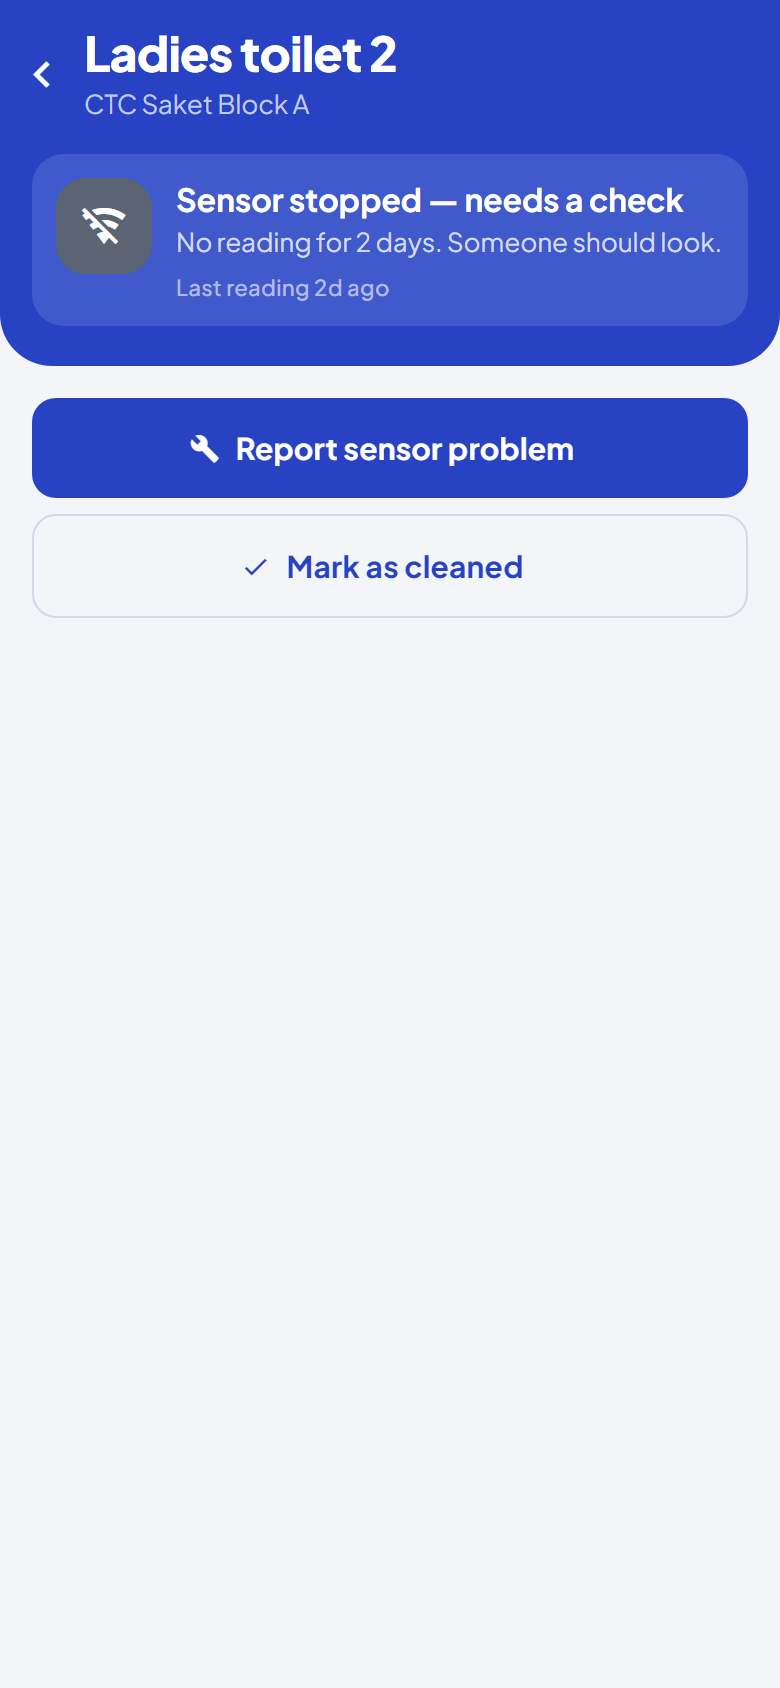
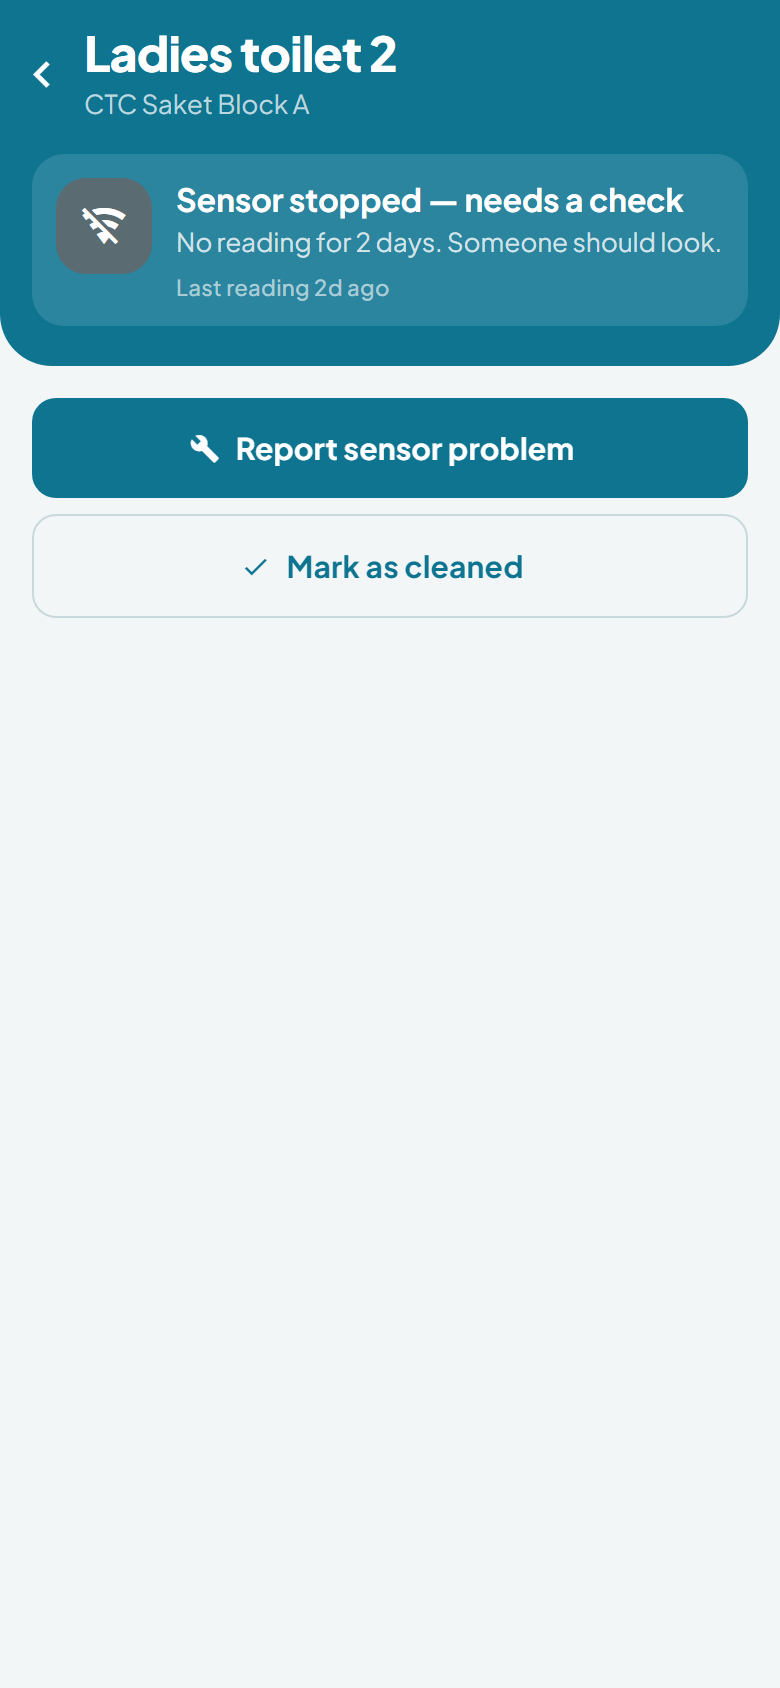
Rework palette to deep teal (color theory)
- Brand teal #0E7490 replaces indigo; fresh/hygienic, fits the subject
- Status colors kept apart from brand; refreshed neutrals + shadows
- Updated splash/adaptive-icon colors; refreshed preview screenshots

Changed region(s): [[0.0, 0.0, 1.0, 0.3389]]

diff --git a/src/theme/index.ts b/src/theme/index.ts
@@ -6,38 +6,39 @@
 import { MD3LightTheme, configureFonts } from 'react-native-paper';
 
 export const colors = {
-  // Surfaces — soft, slightly cool paper
-  bg: '#F4F5F9',
+  // Surfaces — cool, faintly teal paper
+  bg: '#F2F6F7',
   surface: '#FFFFFF',
-  surfaceAlt: '#EEF0F7',
-  surfaceSunken: '#E9ECF4',
-  border: '#E3E7F0',
-  borderStrong: '#D2D8E6',
+  surfaceAlt: '#E9F1F2',
+  surfaceSunken: '#E1EBEC',
+  border: '#DDE8EA',
+  borderStrong: '#C8D8DB',
 
-  // Text
-  text: '#14171F',
-  textMuted: '#59616F',
-  textSubtle: '#8A92A1',
+  // Text — deep teal-charcoal, never pure black
+  text: '#132421',
+  textMuted: '#51626A',
+  textSubtle: '#88999F',
   textInverse: '#FFFFFF',
 
-  // Brand — deep, confident indigo-blue (not generic flat blue)
-  primary: '#2743C4',
-  primaryDark: '#1C3196',
-  primarySoft: '#E7EAFB',
-  primaryTint: '#F2F4FD',
+  // Brand — deep teal (water / clean / health)
+  primary: '#0E7490',
+  primaryDark: '#0B5A72',
+  primarySoft: '#D6EDF3',
+  primaryTint: '#ECF6F9',
 
-  // Status — the one scale everyone learns
-  good: '#0E9F6E',
-  goodSoft: '#E1F5EC',
-  watch: '#C07A05',
-  watchSoft: '#FBEFD6',
-  act: '#DC2F3A',
-  actSoft: '#FBE4E6',
-  offline: '#5B6472',
-  offlineSoft: '#EAEDF2',
+  // Status — the one scale everyone learns (kept apart from the teal brand)
+  good: '#16A34A',
+  goodSoft: '#E1F5E9',
+  watch: '#D98A0B',
+  watchSoft: '#FBEED6',
+  act: '#E23D3D',
+  actSoft: '#FBE4E4',
+  offline: '#5B6B72',
+  offlineSoft: '#E7EEEF',
 
-  accent: '#6D4AFF',
-  accentSoft: '#ECE6FF',
+  // Warm accent (occasional highlight), complementary to teal
+  accent: '#E2663D',
+  accentSoft: '#FBE7DD',
 } as const;
 
 export const spacing = { xs: 4, sm: 8, md: 12, lg: 16, xl: 20, xxl: 28, xxxl: 40 } as const;
@@ -67,15 +68,15 @@ export const typeScale = {
 
 export const elevation = {
   card: {
-    shadowColor: '#0B1437',
-    shadowOpacity: 0.05,
+    shadowColor: '#06333C',
+    shadowOpacity: 0.06,
     shadowRadius: 14,
     shadowOffset: { width: 0, height: 6 },
     elevation: 2,
   },
   raised: {
-    shadowColor: '#0B1437',
-    shadowOpacity: 0.1,
+    shadowColor: '#06333C',
+    shadowOpacity: 0.11,
     shadowRadius: 22,
     shadowOffset: { width: 0, height: 10 },
     elevation: 6,

diff --git a/src/data/cleaner.ts b/src/data/cleaner.ts
@@ -152,5 +152,5 @@ export function cleanerJobById(id: string) {
 export const JOB_META: Record<JobStatus, { label: string; color: string; soft: string; icon: string }> = {
   act: { label: 'Clean now', color: '#DC2F3A', soft: '#FBE4E6', icon: 'alert-circle' },
   watch: { label: 'Clean soon', color: '#C07A05', soft: '#FBEFD6', icon: 'clock-alert-outline' },
-  routine: { label: 'Routine', color: '#2743C4', soft: '#E7EAFB', icon: 'broom' },
+  routine: { label: 'Routine', color: '#0E7490', soft: '#D6EDF3', icon: 'broom' },
 };
